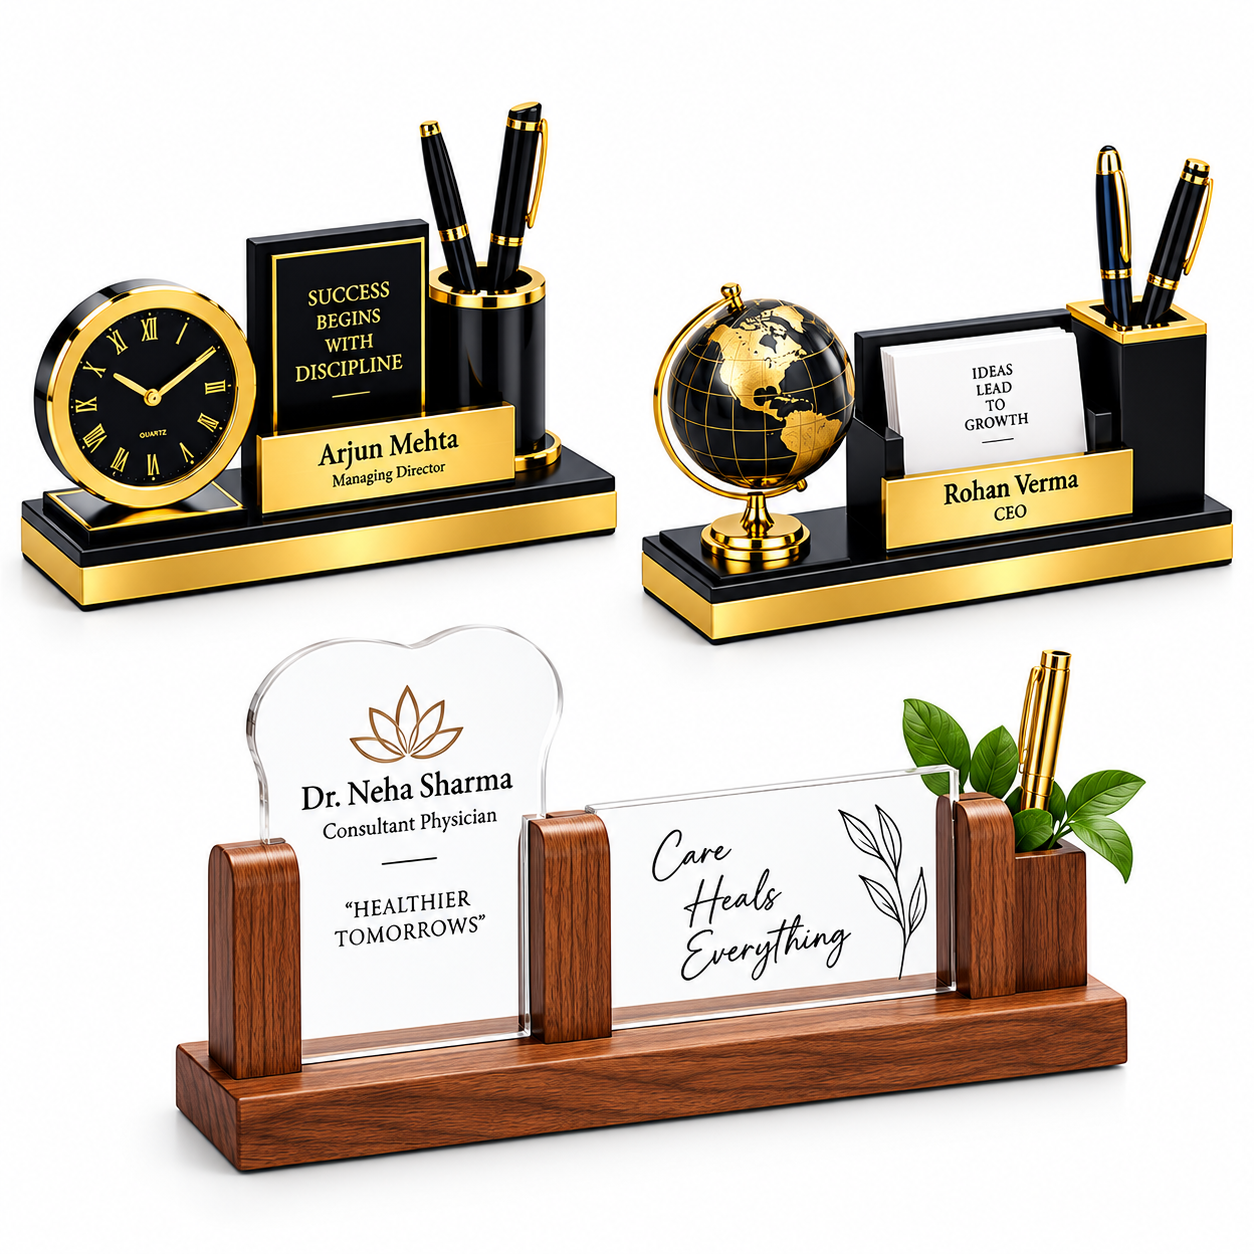
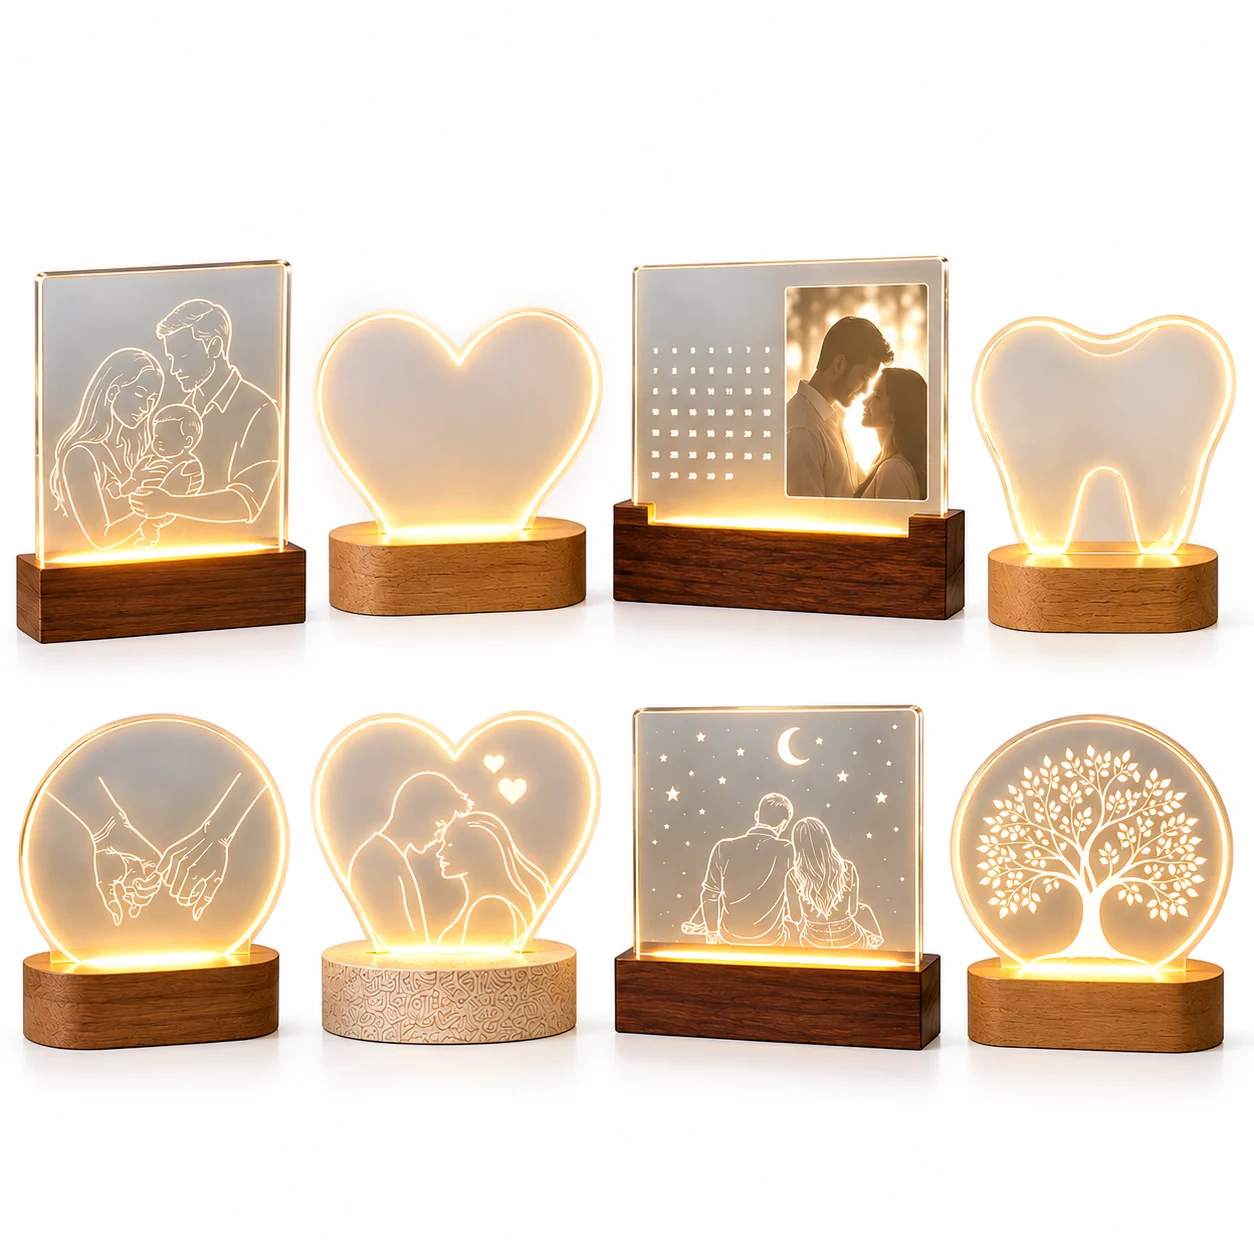
Replace table-tops service cover image

diff --git a/lib/data.ts b/lib/data.ts
@@ -48,7 +48,7 @@ export const services: Service[] = [
   { id: "customized-mementos", name: "Customized Mementos", desc: "Corporate & festival mementos personalized for every occasion.", img: "/services/customized-mementos.webp", images: gallery("customized-mementos"), price: 0, unit: "Get Quote" },
   { id: "photo-mug", name: "Photo Mug", desc: "Personalized photo mugs — perfect for gifting.", img: "/services/photo-mug.webp", images: gallery("photo-mug"), price: 0, unit: "Get Quote" },
   { id: "customized-invitations", name: "Customized Invitations", desc: "Custom wedding & event invitation cards, personalized designs.", img: "/services/customized-invitations.webp", images: gallery("customized-invitations"), price: 0, unit: "Get Quote" },
-  { id: "table-tops", name: "Table Tops", desc: "Executive desk nameplate & accessory sets — clocks, pen holders & more.", img: "/services/table-tops.webp", images: gallery("table-tops"), price: 0, unit: "Get Quote" },
+  { id: "table-tops", name: "Table Tops", desc: "LED acrylic desk standees — names, hearts & personalized plaques.", img: "/services/table-tops.webp", images: gallery("table-tops"), price: 0, unit: "Get Quote" },
   { id: "caps", name: "Caps", desc: "Custom embroidered & printed branded caps.", img: "/services/caps.webp", images: gallery("caps"), price: 0, unit: "Get Quote" },
   { id: "keychains", name: "Key Chains", desc: "Custom photo, printed strap & branded keychains.", img: "/services/keychains.webp", images: gallery("keychains"), price: 0, unit: "Get Quote" },
   { id: "id-cards", name: "ID Cards", desc: "Corporate, medical & institutional ID cards with lanyards.", img: "/services/id-cards.webp", images: gallery("id-cards"), price: 0, unit: "Get Quote" },
@@ -164,6 +164,11 @@ export const products: Record<string, Product[]> = {
     P("SS Mirror Letters", 550, "/products/ss-letters/ss-mirror-letter.webp"),
     P("SS Backlit Halo Letters", 850, "/products/ss-letters/ss-backlit-letter.webp"),
     P("SS Mirror Letters (Curved)", 580, "/products/ss-letters/ss-mirror-letter-alt.webp"),
+    P("Gold Mirror Corporate Signage", 950, "/products/ss-letters/ssletters-corporate-signage-steel.webp"),
+    P("Gold Mirror House Name Letters", 780, "/products/ss-letters/ssletters-baliyans-809-gold.webp"),
+    P("Gold Mirror 'Sweet Home' Letters", 650, "/products/ss-letters/ssletters-sweet-home-gold.webp"),
+    P("Gold Mirror Crown Letters", 850, "/products/ss-letters/ssletters-prince-gold-crown.webp"),
+    P("Teal & SS Temple Name Board", 3200, "/products/ss-letters/ssletters-sri-venkateswara-nilayam-teal.webp"),
   ],
   frames: [
     P("Classic Photo Frame", 499, "/products/frames/classic-photo-frame-couple.webp"),
@@ -233,26 +238,25 @@ export const products: Record<string, Product[]> = {
     P("Cricket Championship Trophy", 1899, "/products/customized-mementos/memento-trophy-cricket-championship-wood.webp"),
     P("Anniversary Heart Photo Plaque", 1699, "/products/customized-mementos/memento-heart-anniversary-photo-plaque.webp"),
     P("Winner Congratulations Trophy", 1499, "/products/customized-mementos/memento-trophy-winner-congratulations.webp"),
-    P("Achievement Award Trophy", 1599, "/products/customized-mementos/memento-trophy-achievement-award-wood.webp"),
     P("Football Championship Trophy", 1699, "/products/customized-mementos/memento-trophy-football-championship.webp"),
     P("Best Employee Award Trophy", 1399, "/products/customized-mementos/memento-trophy-best-employee-award.webp"),
+    P("Corporate Excellence Crystal Award", 1899, "/products/customized-mementos/memento-trophy-corporate-excellence.webp"),
+    P("Employee of the Year Crystal Trophy", 1799, "/products/customized-mementos/memento-trophy-employee-of-year.webp"),
+    P("Best Performer Achievement Trophy", 1699, "/products/customized-mementos/memento-trophy-best-performer-star.webp"),
+    P("Appreciation Award - Wood & Gold", 1899, "/products/customized-mementos/memento-trophy-appreciation-wood-gold.webp"),
+    P("Brand Excellence Gold Award", 2199, "/products/customized-mementos/memento-trophy-brand-excellence-gold.webp"),
+    P("Dedicated Service Award - Wood", 1899, "/products/customized-mementos/memento-trophy-dedicated-service-wood.webp"),
+    P("Customer Service Cricket Trophy", 1699, "/products/customized-mementos/memento-trophy-customer-service-cricket.webp"),
   ],
- "table-tops": [
-  P("Memento LED Circle Family Photo Collage", 1999, "/products/table-tops/memento-led-circle-family-photo-collage.webp"),
-
-
-  P("Memento LED Heart Calendar First Date", 1999, "/products/table-tops/memento-led-heart-calendar-first-date.webp"),
-
-  P("Memento LED Heart Love Couple", 1999, "/products/table-tops/memento-led-heart-love-couple.webp"),
-
-  P("Memento LED Holding Hands Couple", 1999, "/products/table-tops/memento-led-holding-hands-couple.webp"),
-
-
-  P("Memento LED Love Story Timeline", 1999, "/products/table-tops/memento-led-love-story-timeline.webp"),
-
-  P("Memento LED Tooth Shape Dentist", 1999, "/products/table-tops/memento-led-tooth-shape-dentist.webp"),
-
-],
+  "table-tops": [
+    P("Memento LED Circle Family Photo Collage", 1999, "/products/table-tops/memento-led-circle-family-photo-collage.webp"),
+    P("Memento LED Heart Calendar First Date", 1999, "/products/table-tops/memento-led-heart-calendar-first-date.webp"),
+    P("Memento LED Heart Love Couple", 1999, "/products/table-tops/memento-led-heart-love-couple.webp"),
+    P("Memento LED Holding Hands Couple", 1999, "/products/table-tops/memento-led-holding-hands-couple.webp"),
+    P("Memento LED Love Story Photo Collage", 1999, "/products/table-tops/memento-led-love-story-photo-collage.webp"),
+    P("Memento LED Love Story Timeline", 1999, "/products/table-tops/memento-led-love-story-timeline.webp"),
+    P("Memento LED Tooth Shape Dentist", 1999, "/products/table-tops/memento-led-tooth-shape-dentist.webp"),
+  ],
   caps: [
     P("Corporate Branded Cap", 299, "/products/caps/cap-branded-blue-creative-department.webp"),
     P("Corporate Branded Cap II", 299, "/products/caps/cap-branded-blue-balloon-station.webp"),
